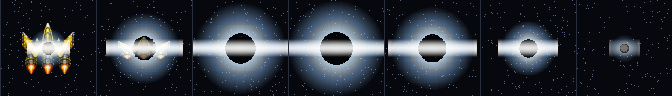
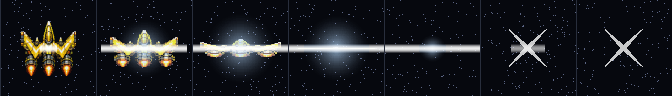
v0.9.340: tune the ghost black-hole power-off + final X-sparkle
Per feedback on the rewound-ghost power-off:
- Ship: 2x slower vertical collapse (_CRT_OFF_VFRAC 0.32→0.64) and it now WIDENS
  as it flattens (toward ~0.9x the line length) so it stretches into the line
  instead of just shrinking.
- Line: 2x thinner (height 18→9) and held LONG — length only starts shrinking
  once the halo is almost gone (~0.78) and pinches out by ~0.96.
- Halo: 75% of the previous diameter, and reworked from a dark event-horizon
  core into a full-inside soft bluish-white GLOW (radial alpha peaking at the
  centre, feathering to the rim).
- New final beat: once the collapse is essentially done (frac>0.86) a quick
  small diagonal 4-point X-sparkle (tapered triangle rays + bright core) flashes
  and fades — the little "poof" star at the very end.

Still frac-driven (sim-timed, scrub-safe); caches (_crt_line_grad/_crt_halo)
unchanged in spirit. Verified end-to-end through _draw_ghosts (no crash, peaks
mid-collapse, X-flash at the tail) + smoke clean. Ref: screenshots/
ghost_crt_off_filmstrip.png.

diff --git a/pewpew.py b/pewpew.py
@@ -137,7 +137,7 @@ def _web_is_touch():
 # features, major for big-rewrites. Skipping the bump means the next user
 # sees the same number and can't tell if they're on the latest build.
 # ──────────────────────────────────────────────────────────────────────────
-VERSION = "0.9.339"
+VERSION = "0.9.340"
 
 # ──────────────────────────────────────────────────────────────────────────
 # HUD layout suppression
@@ -15741,10 +15741,9 @@ class PlayState:
         blit_death_fx(surf, shards, sil, dx, dy, age, offset_x=m)
         return True
 
-    # CRT / black-hole power-off tuning. The ship squashes to a streak FAST
-    # (by this fraction of the branch-end window), then the feathered line +
-    # accretion halo carry the rest of the collapse.
-    _CRT_OFF_VFRAC = 0.32
+    # CRT / black-hole power-off tuning. Fraction of the branch-end window the
+    # ship spends squashing to a streak (while widening toward the line).
+    _CRT_OFF_VFRAC = 0.64
 
     def _crt_line_surf(self, w, h, alpha):
         """A feathered horizontal line: full-bright in the middle rows, alpha
@@ -15764,28 +15763,20 @@ class PlayState:
         return line
 
     def _crt_halo_surf(self):
-        """Cached base accretion halo: a DARK core (the black hole) ringed by a
-        bright rim that fades into a faint outer glow. Built once at a base
-        size; the caller scales it per frame. Drawn straight onto the playfield
-        so the dark core actually darkens the starfield behind it."""
+        """Cached base halo: a soft bluish-white GLOW, brightest at the centre
+        and feathering to transparent at the edge (full inside — no dark core).
+        Built once; the caller scales it per frame."""
         halo = self._crt_halo
         if halo is None:
             D = 96
             hh = D // 2
             halo = pygame.Surface((D, D), pygame.SRCALPHA)
-            # Outer (faint glow) → inner (dark core); each filled circle
-            # overwrites the smaller ones drawn after it, so paint big→small.
+            # Paint big→small so each filled circle leaves a smooth radial
+            # gradient: alpha peaks at the centre, fades to 0 at the rim.
             for rr in range(hh, 0, -1):
-                t = rr / hh                       # 1 = rim edge, 0 = centre
-                if t > 0.62:                      # outer glow, fading out
-                    a = int(150 * (1.0 - (t - 0.62) / 0.38))
-                    col = (150, 200, 255, max(0, a))
-                elif t > 0.34:                    # bright accretion rim
-                    a = int(120 + 130 * (1.0 - (t - 0.34) / 0.28))
-                    col = (210, 235, 255, min(255, a))
-                else:                             # dark core (event horizon)
-                    col = (0, 0, 0, int(150 + 90 * (1.0 - t / 0.34)))
-                pygame.draw.circle(halo, col, (hh, hh), rr)
+                t = rr / hh                       # 1 = edge, 0 = centre
+                a = int(235 * (1.0 - t) ** 1.7)   # bright core → transparent
+                pygame.draw.circle(halo, (185, 220, 255, a), (hh, hh), rr)
             self._crt_halo = halo
         return halo
 
@@ -15808,52 +15799,69 @@ class PlayState:
         cx = int(r.centerx + m)
         cy = int(r.centery)
         w0, h0 = sprite.get_width(), sprite.get_height()
+        s = frac
         # Overall opacity: hold, then fade the last sliver so nothing pops.
-        a = 235 if frac < 0.85 else int(235 * (1.0 - (frac - 0.85) / 0.15))
-        if a <= 0:
-            return
-        # Swell-then-collapse envelope (0 → 1 → 0 across the window) drives the
-        # halo size and line length so they bloom as the ship vanishes and
-        # pinch shut by the end.
-        env = math.sin(min(1.0, frac / 0.92) * math.pi)
+        a = 235 if s < 0.85 else int(235 * (1.0 - (s - 0.85) / 0.15))
         vc = self._CRT_OFF_VFRAC
+        LL = w0 * 2.0                              # full hot-line length
+        # Halo glow: rises, holds, gone by ~0.90 (75% of the old diameter).
+        env_halo = min(clamp(s / 0.30, 0.0, 1.0),
+                       clamp((0.90 - s) / 0.30, 0.0, 1.0))
+        # Line length: ramps in, stays LONG, only starts shrinking once the
+        # halo is almost gone (~0.78), pinched out by ~0.96.
+        line_env = min(clamp(s / 0.30, 0.0, 1.0),
+                       clamp((0.96 - s) / 0.18, 0.0, 1.0))
 
-        # 1. The squashing ship (fast vertical collapse, slight horizontal pull,
-        #    flaring white as it goes). Drawn first so the core swallows it.
-        vp = min(1.0, frac / vc)
-        h = max(1, int(round(h0 * (1.0 - vp))))
-        w = max(1, int(round(w0 * (1.0 - 0.45 * max(0.0, (frac - vc) / (1.0 - vc))))))
-        if vp < 1.0:
-            img = pygame.transform.scale(sprite, (w, h)).copy()
-            wv = int(220 * frac)
+        # 1. The squashing ship — 2× slower vertical collapse, and it WIDENS as
+        #    it flattens (toward ~0.9× the line) so it stretches into the line.
+        vp = clamp(s / vc, 0.0, 1.0)
+        if a > 0 and vp < 1.0:
+            sh_h = max(1, int(round(h0 * (1.0 - vp))))
+            sh_w = max(1, int(round(w0 + (LL * 0.9 - w0) * vp)))
+            img = pygame.transform.scale(sprite, (sh_w, sh_h)).copy()
+            wv = int(220 * s)
             if wv > 0:
                 img.fill((wv, wv, wv, 0), special_flags=pygame.BLEND_RGB_ADD)
             img.fill((255, 255, 255, a), special_flags=pygame.BLEND_RGBA_MULT)
             surf.blit(img, img.get_rect(center=(cx, cy)))
 
-        # 2. Black-hole accretion halo — swells up and swallows the ship.
-        hr = int((0.30 + 0.70 * env) * w0 * 0.95)
-        if hr > 2:
+        # 2. Halo glow — full-inside bluish glow, 75% of the old size, swelling
+        #    over the ship then fading out.
+        hr = int(w0 * 0.71 * env_halo)
+        if a > 0 and hr > 2:
             halo = pygame.transform.scale(
                 self._crt_halo_surf(), (hr * 2, hr * 2)).copy()
             halo.fill((255, 255, 255, int(a * 0.92)),
                       special_flags=pygame.BLEND_RGBA_MULT)
             surf.blit(halo, halo.get_rect(center=(cx, cy)))
 
-        # 3. Big feathered hot line across the disc — widest mid-collapse, then
-        #    pinches in. Drawn on top so the bright band reads over the core.
-        lw = int(w0 * (0.6 + 1.4 * env))
-        if lw > 2:
-            line = self._crt_line_surf(lw, 18, a)
+        # 3. Big feathered hot line — 2× thinner, held long, on top.
+        lw = int(LL * line_env)
+        if a > 0 and lw > 2:
+            line = self._crt_line_surf(lw, 9, a)
             surf.blit(line, line.get_rect(center=(cx, cy)))
 
-        # 4. Final blow-out point.
-        if frac > 0.8:
-            fa = int(235 * (1.0 - (frac - 0.8) / 0.2))
-            if fa > 0:
-                dot = pygame.Surface((8, 8), pygame.SRCALPHA)
-                pygame.draw.circle(dot, (255, 255, 255, fa), (4, 4), 4)
-                surf.blit(dot, dot.get_rect(center=(cx, cy)))
+        # 4. Final X-sparkle — a quick little diagonal 4-point star flash once
+        #    the collapse is essentially done.
+        if s > 0.86:
+            fa = math.sin(clamp((s - 0.86) / 0.14, 0.0, 1.0) * math.pi)
+            if fa > 0.03:
+                L = max(2, int(w0 * 0.55 * (0.6 + 0.4 * fa)))
+                sa_ = int(255 * fa)
+                bw = 1.0 + 2.0 * fa
+                D = L * 2 + 6
+                c = D // 2
+                spark = pygame.Surface((D, D), pygame.SRCALPHA)
+                col = (255, 255, 255, sa_)
+                for dx, dy in ((1, 1), (1, -1), (-1, 1), (-1, -1)):
+                    nx, ny = dx * 0.70711, dy * 0.70711   # ray unit (diagonal)
+                    px, py = -ny, nx                       # perpendicular unit
+                    pygame.draw.polygon(spark, col, [
+                        (c + px * bw, c + py * bw),
+                        (c + nx * L, c + ny * L),
+                        (c - px * bw, c - py * bw)])
+                pygame.draw.circle(spark, col, (c, c), max(1, int(3 * fa)))
+                surf.blit(spark, spark.get_rect(center=(cx, cy)))
 
     def _draw_ghosts(self, surf):
         """Draw every active ghost's entity field translucently on top of the
